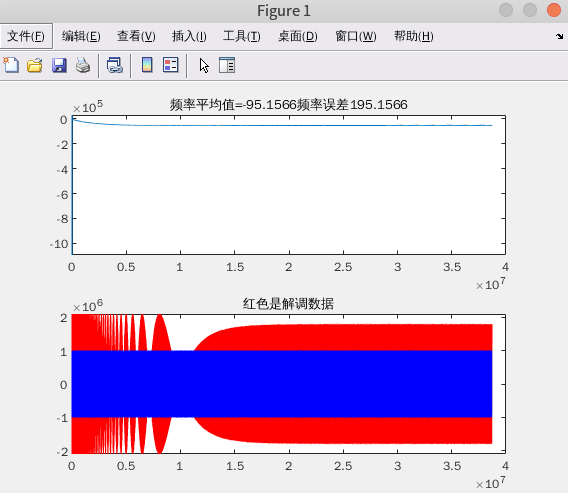
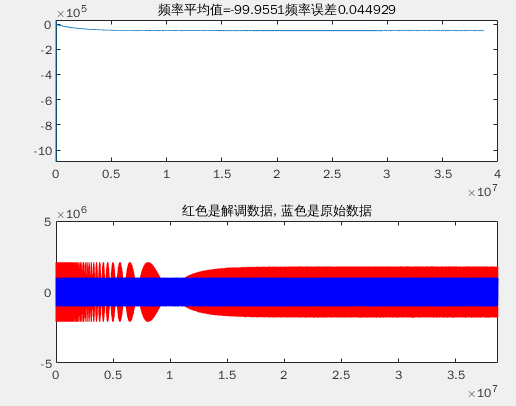
添加三阶锁相环

diff --git a/source/_posts/2021.11/北斗卫星定位-6-三阶锁相环.md b/source/_posts/2021.11/北斗卫星定位-6-三阶锁相环.md
@@ -1,0 +1,276 @@
+---
+title: 北斗卫星定位--6--三阶锁相环
+date: 2021-11-27 16:32:29
+tags: ["SDR", "Matlab"]
+categories: SDR
+comment: true
+mathjax: true
+---
+在上一篇博客当中，实现了载波同步中的二阶锁频环，通过锁频环能够实现相位的跟踪，但是在上篇博客的最后，还是可以看到，经过二阶锁频环之后，对于Q路上的数据，依然有较高的能量。然而在实际发送数据的时候，发送的只是一个实数数据，只有只有I路上有数据，因此在这里进一步地对相位同步才能实现最终的同步。
+<!--more-->
+# 三阶锁相环
+
+## 鉴相器
+在上一篇博客当中，有介绍过鉴频器，鉴相器相较于鉴频器更加简单，因为鉴频器是需要计算相位的变换的快慢，因此实现鉴相器可以在鉴频器之前进行。
+![鉴相公式](北斗卫星定位-6-三阶锁相环/鉴相公式.png)
+
+## 环路滤波器结构
+在前面介绍了二阶环路的结构，其实三阶环路和二阶环路的结构基本一致。用于区分对应的锁频/锁相环是几阶段可以整个系统中有几个积分器。
+
+
+| PLL阶数 | 环路滤波器 | NCO | PLL阶数 |
+| -- | -- | -- | -- |
+| 一阶PLL | 0 | 1 | 1 |
+| 二阶PLL | 1 | 1 | 2 |
+| 三阶PLL | 2 | 1 | 3 |
+
+
+所以在这篇博客中主要关注三阶PLL，其结构如下：
+![三阶锁相环结构](北斗卫星定位-6-三阶锁相环/三阶锁相环结构.png)
+
+经过双线性变化之后，可以得到在离散域中其结构
+![三阶锁相环双线性变换](北斗卫星定位-6-三阶锁相环/三阶环路双线性变换.png)
+这样在实现三阶环路的时候，只需要按照如下的结构去进行处理就可以了。
+
+## 环路滤波器的关键参数
+可以看到上面三阶环路滤波器的三条之路中有一些参数这些参数在实际设计PLL的时候十分重要，因此需要正确地计算这些参数，才能设计一个稳定的三阶PLL。
+噪声带宽和三阶环路的特征频率关系如下：
+![三阶环路滤波器参数](北斗卫星定位-6-三阶锁相环/三阶环路滤波器参数.png)
+其中a3, b3有推荐的参数分别为：
+$$ a3 = 1.1, b3 = 2.4 $$
+在实际设计的时候，只要制定了一个三阶环路可以容纳的噪声的带宽，那么就能够很容易地计算出三阶环路所需要的特征频率。
+
+# 锁频环路具体实现
+在实际的应用的时候，可以使用一个二阶锁频环路来辅助三阶锁相环路实现PLL的收敛，具体的结构如下：
+
+![二阶辅三阶](北斗卫星定位-6-三阶锁相环/二阶辅三阶.png)
+有了上篇博客的经验，实现这个结构还是比较简单的，matlab代码如下：
+```m
+clc;
+close all;
+clear all;
+
+%% parameter define
+SAMP_RATE = 8.184e6;    % sample rate
+IF_FREQ   = 2.046e6;    % inner frequency 2.046M 
+SOURCE_DATA_LEN = 30480;  % the source data num
+DATA_RATE = IF_FREQ/16; % data rate
+SAMP_LEN  = SOURCE_DATA_LEN*(SAMP_RATE/DATA_RATE);
+MEAN_FILTER_LEN = 32;   % mean filter length
+TS = MEAN_FILTER_LEN/SAMP_RATE; %loop filter update time
+
+TX_AMP = 1;
+ROM_DEPTH = 4096;
+TX_CARRIER_FREQ = IF_FREQ; % carrier frequency
+TX_FREQ_CTRL_WORD = TX_CARRIER_FREQ * 2^32/ SAMP_RATE; % tx frequency control word
+
+RX_AMP = 2048;
+FREQ_OFFSET = -100; % frequency offset 100Hz
+RX_FREQ_CTRL_WORD =  (TX_CARRIER_FREQ + FREQ_OFFSET)* 2^32/ SAMP_RATE;
+
+% calculate the order2 loop filter parameter
+RATIO = 0.707; % damping ratio
+NOISE_BW_F = 200; % noise band width 
+WN_F = 2*NOISE_BW_F/(RATIO+(1/(4*RATIO))); %BL=WN*(RATIO+(1/(4*RATIO)))/2
+A2 = 2*RATIO;
+
+% calculate the order3 loop filter parameter
+NOISE_BW_P = 100;
+A3 = 1.1;
+B3 = 2.4;
+WN_P = (4*(A3*B3-1))*NOISE_BW_P/(A3*B3^2 + A3^2 - B3);
+
+
+
+%% generate bpsk modulation data
+% source_data ==> BPSK mod
+% generate source data
+source_data = rand(1, SOURCE_DATA_LEN); % generate test source data
+source_data(source_data < 0.5) = -1;
+source_data(source_data >= 0.5) = 1;    
+source_data = repelem(source_data, 1, SAMP_RATE/DATA_RATE); % upsample  signal source data to sample rate 
+
+% generate carrier wave
+
+
+rom_addr = 0: 1/ROM_DEPTH: 1-1/ROM_DEPTH;
+carrier_wave_cos = RX_AMP*cos(2*pi*rom_addr);
+carrier_wave_sin = RX_AMP*sin(2*pi*rom_addr);
+% bpsk modulation
+bpsk_mod = zeros(1,SAMP_LEN);
+rom_index = 1;
+phase_accumulator = 0;
+
+for i=1:SAMP_LEN
+    %bpsk modulation
+    if(source_data(i) == -1)
+        bpsk_mod(i) = -carrier_wave_cos(rom_index);
+    else
+        bpsk_mod(i) = carrier_wave_cos(rom_index);
+    end
+
+    phase_accumulator = phase_accumulator + TX_FREQ_CTRL_WORD;
+    if(phase_accumulator > 2^32)
+        phase_accumulator = phase_accumulator - 2^32;
+    end
+
+    rom_index = round(phase_accumulator/2^20);
+    if(rom_index == 0)
+        rom_index = 1;
+    end
+end
+
+% plot the bpsk result
+% figure(1);
+% plot(1:1024, bpsk_mod(1:1024), 'r', 1:1024, 1024*source_data(1:1024),'b');
+% legend('bpsk mod', 'source data');
+% title("BPSK modulation");
+
+%% bpsk demodulation using pll
+% the demodulation steps
+% 1. iq demod, using the iq demodulation to get the iq data, the receiver lo_freq is coming for nco
+% 2. low pass the demod signal to filter out high frequency(using mean filter )
+% 3. phase detect, calculate the phase error and generate the frequency error
+% 4. loop filter parameter calculate
+% 5. drive the nco to generate local carrier frequency
+rom_index = 1;          % rom index
+mean_cal_index = 1;
+i_data=0; q_data=0;     % i/q demod data
+i_acc =0; q_acc =0;     % i/q accumulate value
+i_mean=1; q_mean=1;     % mean value of i/q samples
+p_dot =1; p_cross=1;    % dot/cross value of 2 vectors
+delta_phi = 0;          % phase error
+freq_err = 0;           % freq error
+phi = 0;                % phase error
+phase_accumulator = 0;  % clear the phase accumulator
+freq_err_out = zeros(1,SAMP_LEN);
+demod_i = zeros(1,SAMP_LEN);
+demod_q = zeros(1,SAMP_LEN);
+freq_err_control_word = 0;
+
+freq_k1 = 0;
+freq_k2 = 0;
+phase_k1 = 0;
+phase_k2 = 0;
+phase_k3 = 0;
+loop_acc3 = 0;
+loop_acc2_t = 0;
+loop_acc2 = 0;
+loop_acc1_t = 0;
+loop_acc1 = 0;
+
+for i=1:SAMP_LEN
+    % mixing
+    i_data = bpsk_mod(i)*carrier_wave_cos(rom_index);
+    q_data = -bpsk_mod(i)*carrier_wave_sin(rom_index);
+
+    %% prepare mean filter(calculate MEAN_FILTER_LEN samples)
+    % accumulate the samples
+    i_acc = i_acc + i_data;
+    q_acc = q_acc + q_data;
+    if (mean_cal_index == MEAN_FILTER_LEN)
+        i_mean_t = i_mean;
+        q_mean_t = q_mean;
+        % calculate mean value
+        i_mean = i_acc/MEAN_FILTER_LEN;
+        q_mean = q_acc/MEAN_FILTER_LEN;
+        % clean accumulator
+        i_acc = 0;
+        q_acc = 0;
+
+        %% phase error detector
+        % using atan2 to calculate the phase
+        if (i_mean == 0) % x=0
+            phi = atan2(q_mean, 1); %avoid divide 0
+        else
+            phi = atan2(q_mean, i_mean);
+        end
+
+        % determine the phase trough quadrant 
+        if (i_mean < 0 && q_mean > 0) % second quadrant
+            phi = phi - pi;
+        elseif (i_mean < 0 && q_mean < 0) % third quadrant 
+            phi = phi + pi;
+        elseif (q_mean == 0) % x axis
+            phi = 0;
+        end
+
+        %% frequency detector(using vector)
+        p_dot = i_mean*i_mean_t + q_mean*q_mean_t;
+        p_cross = i_mean_t*q_mean - q_mean_t*i_mean;
+
+        % using atan2 to calculate the phase
+        if (p_dot == 0) % x=0
+            delta_phi = atan2(p_cross, 1); %avoid divide 0
+        else
+            delta_phi = atan2(p_cross, p_dot);
+        end
+
+        % determine the phase trough quadrant 
+        if (p_dot < 0 && p_cross > 0) % second quadrant
+            delta_phi = delta_phi - pi;
+        elseif (p_dot < 0 && p_cross < 0) % third quadrant 
+            delta_phi = delta_phi + pi;
+        elseif (p_cross == 0) % x axis
+            delta_phi = 0;
+        end
+
+        % calculate the frequency error 2*pi*f=delta_phi/delta_t
+        freq_err = (delta_phi/(MEAN_FILTER_LEN/SAMP_RATE))/(2*pi);
+
+        %% loop filter, using order2 fll to improve order3 pll
+        freq_k1 = freq_err*A2*WN_F*TS;
+        freq_k2 = freq_err*(WN_F^2)*TS;
+        phase_k1 = phi*(WN_P^3)*TS;
+        phase_k2 = phi*(A3*WN_P^2);
+        phase_k3 = phi*B3*WN_P;
+
+        loop_acc3 = (loop_acc2+loop_acc2_t)/2 + phase_k3;
+        loop_acc2_t = loop_acc2;
+        loop_acc2 = ((((loop_acc1+loop_acc1_t)/2) + phase_k2)*TS)+freq_k1 + loop_acc2_t;
+        loop_acc1_t = loop_acc1;
+        loop_acc1 = freq_k2 + phase_k1 + loop_acc1_t;
+
+        freq_err_control_word = (loop_acc3*2^32)/SAMP_RATE;
+
+        mean_cal_index = 0;
+    end
+    mean_cal_index = mean_cal_index + 1;
+
+    %% NCO control using loop filter out value
+    phase_accumulator = phase_accumulator + RX_FREQ_CTRL_WORD + freq_err_control_word;
+    if(phase_accumulator > 2^32)
+        phase_accumulator = phase_accumulator - 2^32;
+    elseif (phase_accumulator < 0)
+        phase_accumulator = phase_accumulator +  2^32;
+    end
+
+    rom_index = round(phase_accumulator/2^20);
+    if(rom_index == 0)
+        rom_index = 1;
+    end
+
+    %% watch the output
+    freq_err_out(i) = freq_err_control_word;
+    demod_i(i) = i_mean;
+    demod_q(i) = q_mean;
+
+end
+
+figure(2);
+subplot(2,1,1);
+plot(freq_err_out);
+title(['频率平均值=',num2str((sum(freq_err_out(1200:end))/(SAMP_LEN-1200))*SAMP_RATE/2^32),'频率误差',num2str((FREQ_OFFSET+(sum(freq_err_out(1200:end))/(SAMP_LEN-1200))*SAMP_RATE/2^32))]);
+subplot(2,1,2);
+plot(demod_i,'r');  % 
+hold on;
+plot(source_data*1e6, 'b');
+hold on;
+plot(demod_q,'g');
+axis( [0 length(demod_i) -3e6 3e6 ]);
+legend('i data', 'source data', 'q data');
+```
+![锁相环结果](北斗卫星定位-6-三阶锁相环/锁相环结果.png)
+可以看到，实现了上面的结构之后，频率得到了锁定，并且可以看到Q路上的数据能量逐渐减小到了0值附近，这样可以认为该环路已经收敛，正确地解调出来数据。
+
+![锁相环结果细节](北斗卫星定位-6-三阶锁相环/锁相环结果细节.png)

diff --git a/source/_posts/2021.11/北斗卫星定位-5-二阶锁频环路.md b/source/_posts/2021.11/北斗卫星定位-5-二阶锁频环路.md
@@ -112,7 +112,7 @@ $$r_{p}(t) = I_{p}(t) + jQ_{p}(t) = D(t)e^{jω_{e}t+θ_{e}} = A_{p}(t)e^{j \phi 
 
 上面的公式，求得出来的是角频率，对于频率只需要和角频率进行一个2*pi的运算即可。
 
-一个鉴相器的机构可以如下图所示：
+一个鉴频器的结构可以如下图所示：
 ![鉴相器](北斗卫星定位-5-二阶锁频环路/phase_detector.png)
 
 # 环路滤波器
@@ -149,7 +149,7 @@ clear all;
 %% parameter define
 SAMP_RATE = 8.184e6;    % sample rate
 IF_FREQ   = 2.046e6;    % inner frequency 2.046M 
-SOURCE_DATA_LEN = 204800;  % the source data num
+SOURCE_DATA_LEN = 604800;  % the source data num
 DATA_RATE = IF_FREQ/16; % data rate
 SAMP_LEN  = SOURCE_DATA_LEN*(SAMP_RATE/DATA_RATE);
 MEAN_FILTER_LEN = 32;   % mean filter length
@@ -210,8 +210,7 @@ end
 
 % plot the bpsk result
 figure(1);
-plot(1:1024, bpsk_mod(1:1024), 'r', 1:1024, source_data(1:1024),'b');
-axis([0, 1024, -2, 2]);
+plot(1:1024, bpsk_mod(1:1024), 'r', 1:1024, 1024*source_data(1:1024),'b');
 legend('bpsk mod', 'source data');
 title("BPSK modulation");
 
@@ -258,7 +257,7 @@ for i=1:SAMP_LEN
         i_acc = 0;
         q_acc = 0;
 
-        %% phase detector(using vector)
+        %% frequency detector(using vector)
         p_dot = i_mean*i_mean_t + q_mean*q_mean_t;
         p_cross = i_mean_t*q_mean - q_mean_t*i_mean;
 
@@ -321,15 +320,22 @@ for i=1:SAMP_LEN
 
 end
 
-%figure;
+figure(2);
 subplot(2,1,1);
 plot(freq_err_out);
-title(['频率平均值=',num2str((sum(freq_err_out(1200:end))/(SAMP_LEN-1200))*SAMP_RATE/2^32),'频率误差',num2str((FREQ_OFFSET-(sum(freq_err_out(1200:end))/(SAMP_LEN-1200))*SAMP_RATE/2^32))]);
+title(['频率平均值=',num2str((sum(freq_err_out(1e7:end))/(SAMP_LEN-1e7))*SAMP_RATE/2^32),'频率误差',num2str((FREQ_OFFSET+(sum(freq_err_out(1e7:end))/(SAMP_LEN-1e7))*SAMP_RATE/2^32))]);
 subplot(2,1,2);
 plot(demod_i,'r');  % 
 hold on;
 plot(source_data*1e6, 'b');
-title('红色是解调数据');
+axis( [0 length(demod_i) -5e6 5e6 ]);
+title('红色是解调数据, 蓝色是原始数据');
+
+figure(3)
+plot(demod_i,'g');
+axis( [0 length(demod_i) -5e6 5e6 ]);
+title('绿色是Q路数据');
+
 ```
 ![锁频环路未锁定](北斗卫星定位-5-二阶锁频环路/锁频环路未锁定.png)
 
